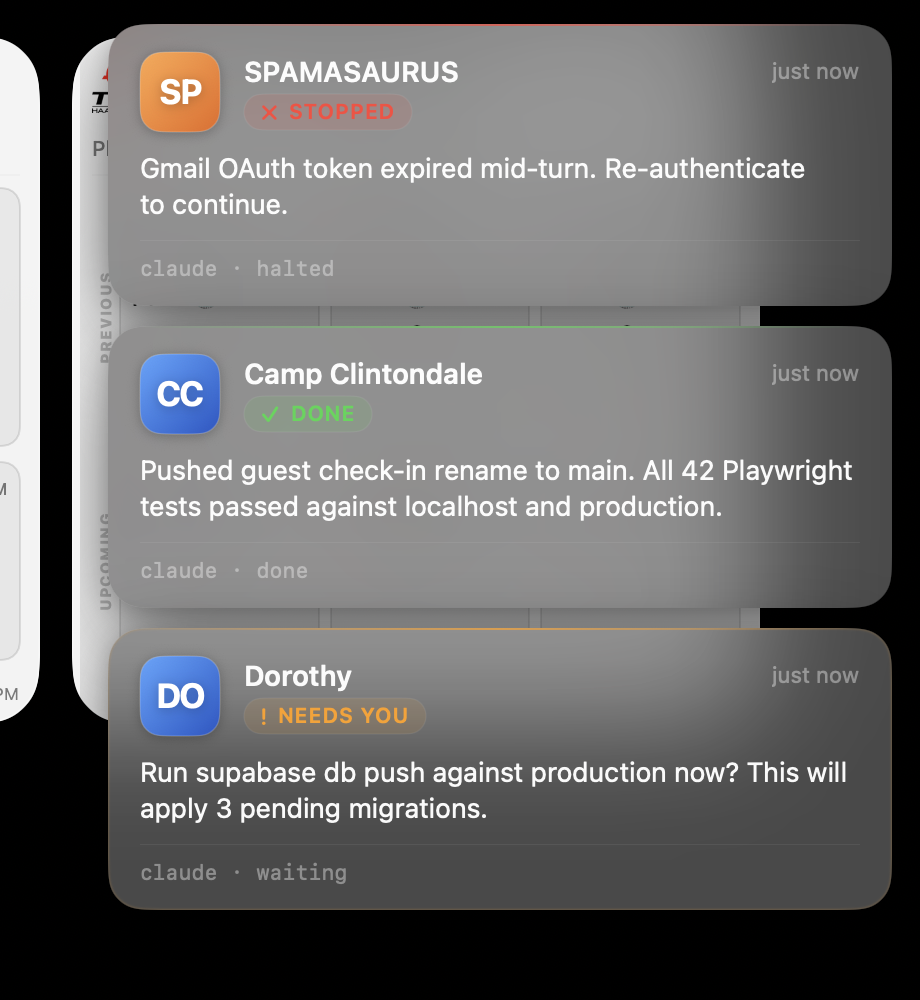
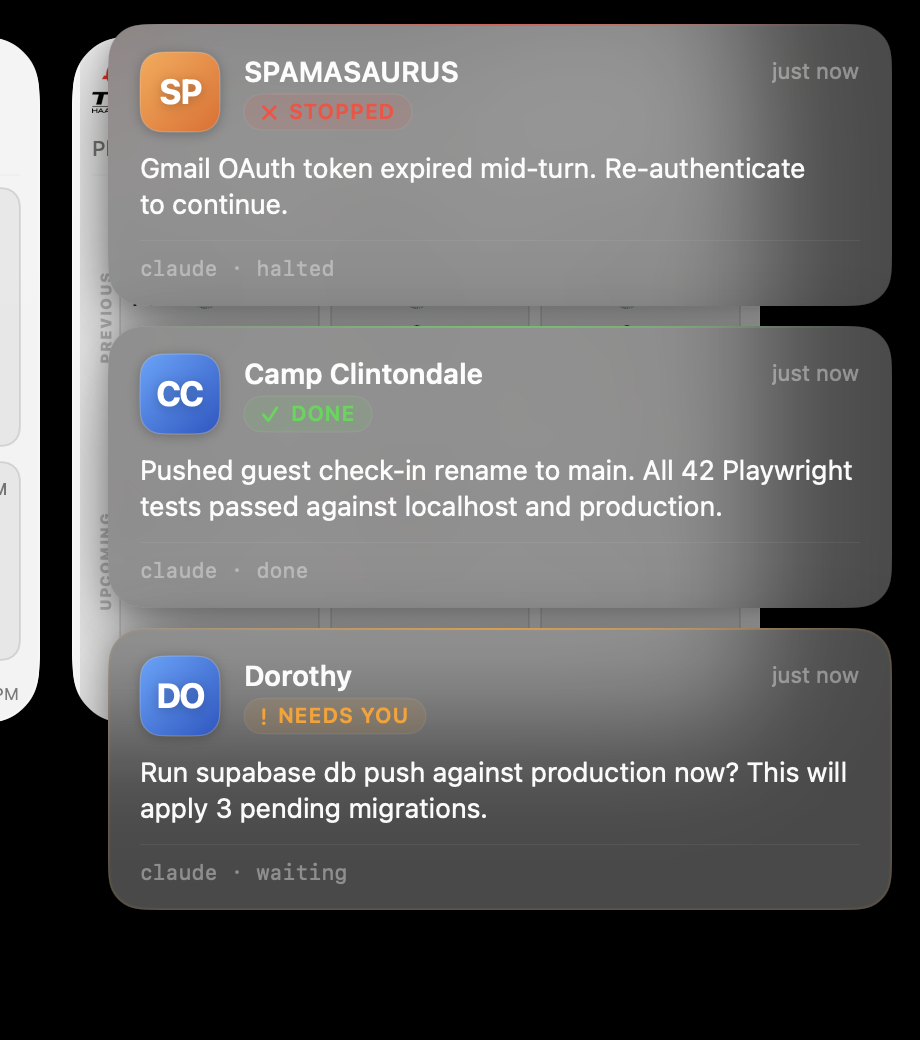
QA: 41/41 unit tests + smoke test pass on QA Mac
Two unit tests caught real bugs in the implementation:
- NotiflyEvent.truncate produced 238-char output when asserting 240. Fixed
  the off-by-two by truncating to maxLength-1 and appending the ellipsis.
- ProjectIcon.initials returned "  " (whitespace) for whitespace-only input.
  Fixed by falling through to the trimmed-words branch when no letters/digits
  exist, returning "" cleanly.

Live smoke test on QA Mac: build, launch, send 3 events (one per type),
verify the process survived all IPC traffic, capture the stack screenshot,
fire `notifly active --project Dorothy` and verify only that card cleared,
fire `notifly clear` and verify the stack emptied. All four reference
screenshots saved to qa/screenshots/ for v0.1.0.

diff --git a/macos/Notifly/Models/NotiflyEvent.swift b/macos/Notifly/Models/NotiflyEvent.swift
@@ -21,10 +21,12 @@ struct NotiflyEvent: Identifiable, Equatable {
     self.receivedAt = Date()
   }
 
+  private static let maxLength = 240
+
   private static func truncate(_ s: String) -> String {
     let trimmed = s.trimmingCharacters(in: .whitespacesAndNewlines)
-    if trimmed.count <= 240 { return trimmed }
-    return String(trimmed.prefix(237)) + "…"
+    if trimmed.count <= maxLength { return trimmed }
+    return String(trimmed.prefix(maxLength - 1)) + "…"
   }
 }
 

diff --git a/macos/Notifly/Models/ProjectIcon.swift b/macos/Notifly/Models/ProjectIcon.swift
@@ -9,12 +9,16 @@ enum ProjectIcon {
   /// - "Dorothy" → "DO"
   /// - "X" → "X"
   /// - "" → ""
+  /// - "   " → ""
   static func initials(for name: String) -> String {
     let words = name.split(whereSeparator: { !$0.isLetter && !$0.isNumber })
     if words.count >= 2 {
       return String(words.prefix(2).compactMap { $0.first }).uppercased()
     }
-    return String(name.prefix(2)).uppercased()
+    if let first = words.first {
+      return String(first.prefix(2)).uppercased()
+    }
+    return ""
   }
 
   /// Deterministic hash of `name` into `[0, paletteCount)` for color selection.